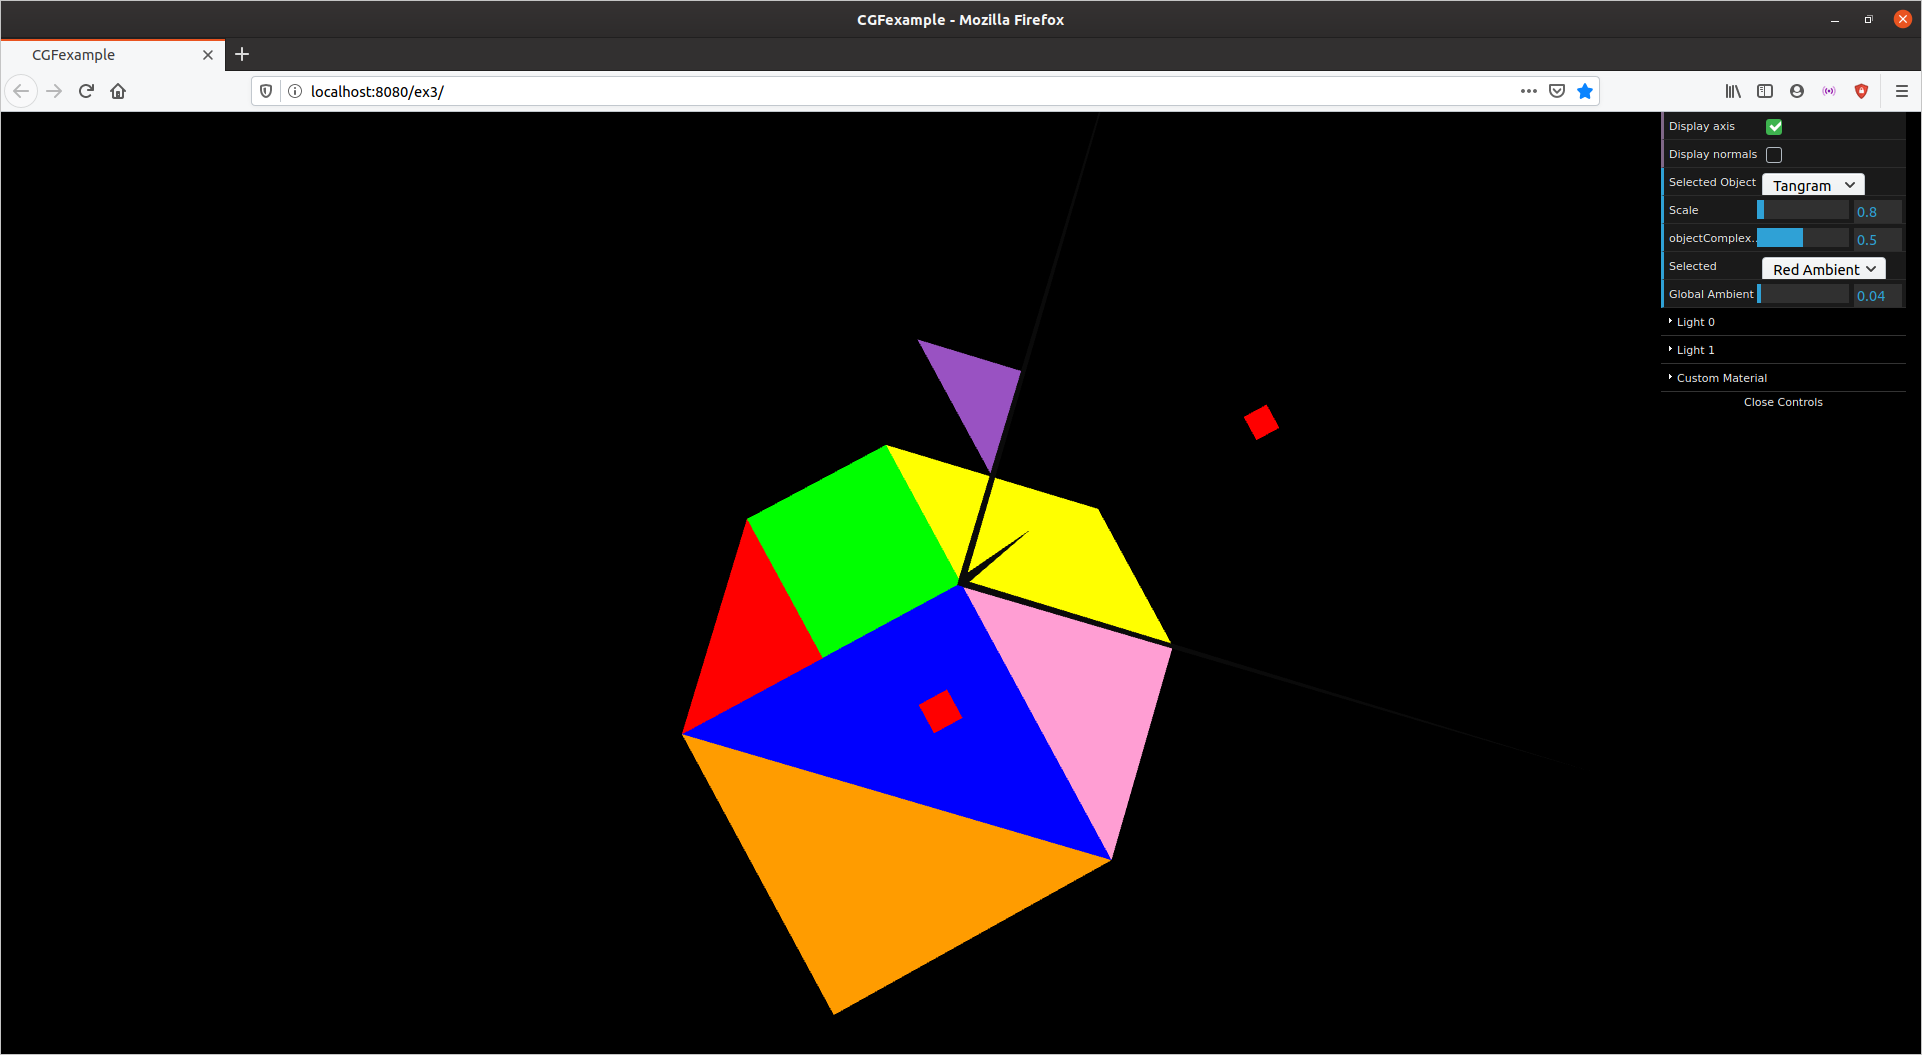
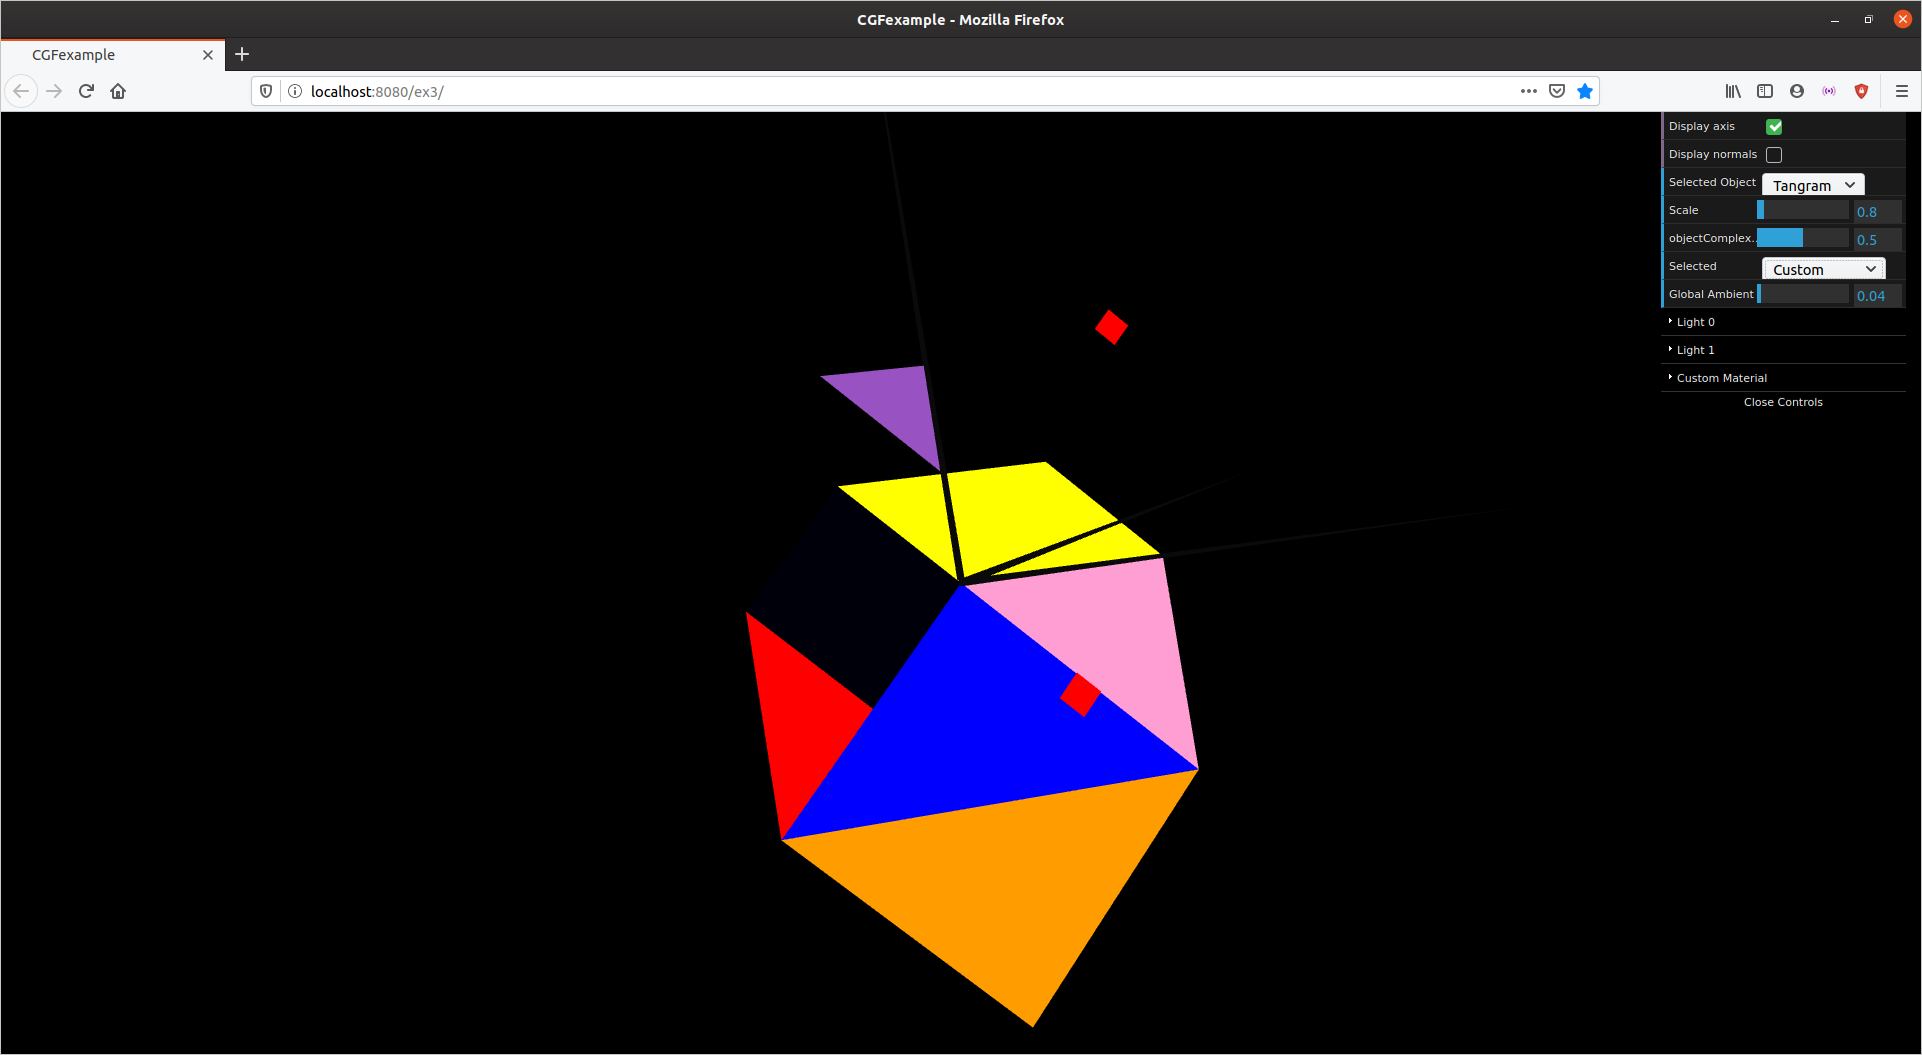
added custom material do diamond

diff --git a/Practical/ex3/MyTangram.js b/Practical/ex3/MyTangram.js
@@ -1,5 +1,5 @@
 /**
- * MyTriangle
+ * MyTangram
  * @constructor
  * @param scene - Reference to MyScene object
  */
@@ -56,13 +56,11 @@ class MyTangram extends CGFobject {
         this.scene.orange.setDiffuse(255, 153, 0, 1.0);
         this.scene.orange.setSpecular(255, 255, 255, 1.0);
         this.scene.orange.setShininess(10);
-
     }
 	display() {
 
         this.scene.pushMatrix();
-        this.scene.green.apply();
-
+        this.scene.customMaterial.apply();
         var trans = [1.0, 0.0, 0.0, 0.0,
                      0.0, 1.0, 0.0, 0.0,
                      0.0, 0.0, 1.0, 0.0,
@@ -73,7 +71,6 @@ class MyTangram extends CGFobject {
         
         this.scene.pushMatrix();
         this.scene.yellow.apply();
-
         this.scene.rotate(Math.PI, 1, 0, 0);
         this.scene.translate(-1, -1, 0);
         this.parallelogram.display();
